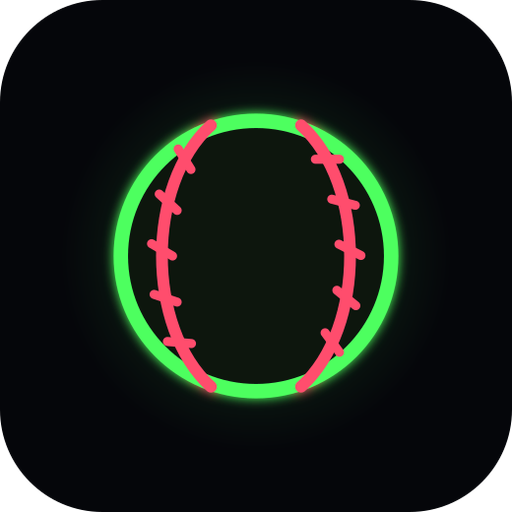
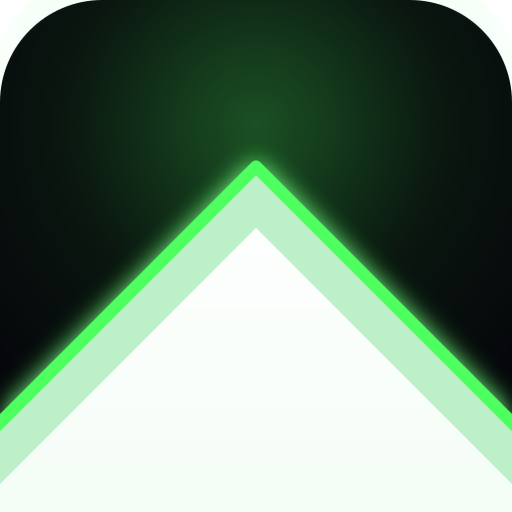
Revert "브랜드: 앱 아이콘을 네온 야구공으로 교체"
This reverts commit f64996a97bfd6658b3c70a884b6c776ded6e6417.

diff --git a/src/App.tsx b/src/App.tsx
@@ -21,7 +21,7 @@ type GameType = 'speed' | 'duel';
 
 // 앱 아이콘 버전. 올릴 때마다 설치된 사용자에게 '홈 화면 재설치' 안내를 한 번 띄운다.
 // (PWA 홈 화면 아이콘은 OS가 설치 시점에 캐시 → 매니페스트만 바꿔선 안 바뀜.)
-const ICON_VERSION = '3';
+const ICON_VERSION = '2';
 type Launch =
   | { conn: 'online'; gameType: GameType; action: 'create' | 'join'; code?: string }
   | { conn: 'local'; gameType: GameType };

diff --git a/CLAUDE.md b/CLAUDE.md
@@ -144,9 +144,9 @@
   **다음 실행 때 적용**된다. `onRegisteredSW`에서 앱이 보일 때마다(`visibilitychange`) + 1분마다 `registration.update()`로 확인.
   진행 중 강제 리로드는 하지 않음(온라인 대전 끊김 방지). React 훅은 `workbox-window`(peer dep) 필요 → devDependencies에 명시.
   주의: SW 교체는 한 텀 늦다 — 새 로직은 그 버전에 올라온 *다음* 실행부터 적용.
-- 아이콘은 `scripts/gen-icons.mjs`로 SVG→PNG 생성해 `public/`에 커밋. **네온 야구공**(다크 타일 위 그린 네온 링(`--accent`) +
-  레드 네온 실밥·스티치, 발광). `-light`는 밝은 타일 + 흰 공 + 그린 링 + 레드 실밥(발광 대신 은은한 그림자). 재생성: `pnpm add -D sharp` 후 `node scripts/gen-icons.mjs`
-  (sharp는 애드혹 — 생성 후 `git checkout package.json pnpm-lock.yaml`로 의존성 되돌림). dark+light+600+favicon 한 번에.
+- 아이콘은 `scripts/gen-icons.mjs`로 SVG→PNG 생성해 `public/`에 커밋. **야구 베이스 한 구석**(흰 정사각형을 45°
+  다이아몬드로 크게 그려 위쪽 꼭짓점만 확대, 베벨 테두리 + 네온 그린 발광)을 검정 타일에. 재생성: `pnpm add -D sharp` 후 `node scripts/gen-icons.mjs`
+  (sharp는 애드혹 — 생성 후 `git checkout package.json pnpm-lock.yaml`로 의존성 되돌림).
 - **아이콘 변경 안내**(`App.tsx` `ICON_VERSION`): 아이콘 바꾸면 `ICON_VERSION`을 올린다. 기존 사용자(써 본 흔적 있음)에게 하단 배너 1회 —
   **설치 가능(브라우저·미설치)이면 `beforeinstallprompt`로 [설치하기] 한 번에 네이티브 설치**(새 아이콘), 이미 설치(standalone)면 아이콘이 OS 캐시라 **삭제 후 재추가 수동 안내**(iOS는 공유→홈 화면 추가). `localStorage.nb_icon_seen`로 1회 제어.
 
